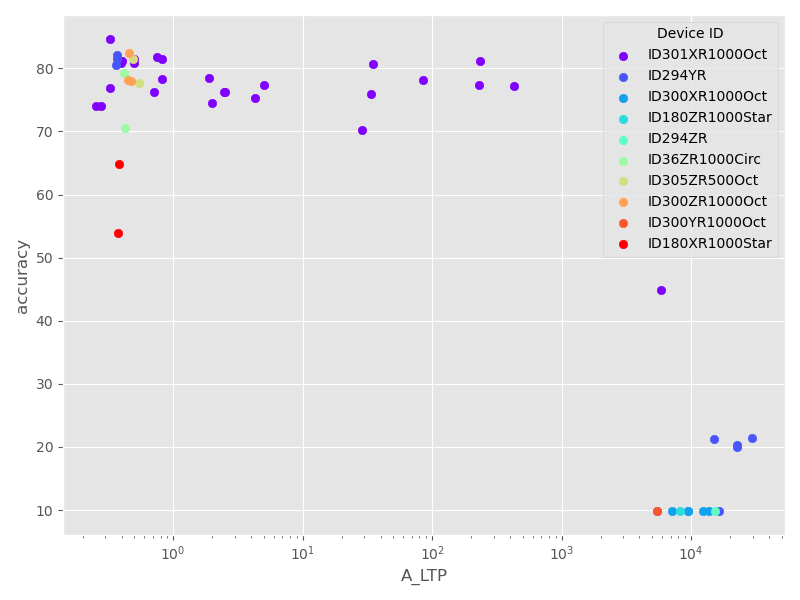
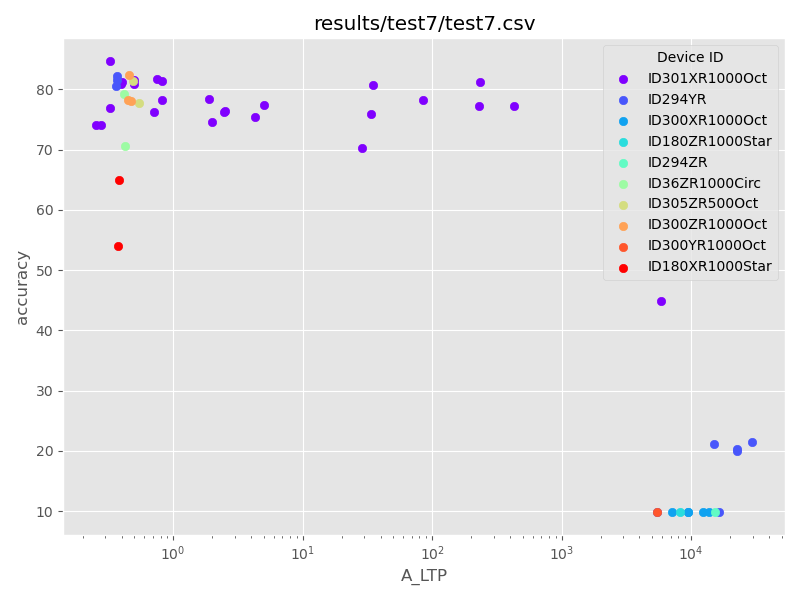
Add titles to plots

diff --git a/utils/src/plot_summary.py b/utils/src/plot_summary.py
@@ -15,6 +15,7 @@ if __name__ == '__main__':
     parser.add_argument('--all', action='store_true', help='Plot all pairs of data points')
     parser.add_argument('--savefig', type=str, help='Save the figure to a file', default=None)
     parser.add_argument('--scale', type=str, choices=['linear', 'log-log', 'log-lin', 'lin-log'], default='linear', help='Scale of the axes')
+    parser.add_argument('--title', type=str, help='Title of the plot', default=None)
     args = parser.parse_args()
 
     if (args.x or args.y) and args.all:
@@ -30,6 +31,8 @@ if __name__ == '__main__':
 
     xscale = 'linear' if args.scale in ['linear', 'log-lin'] else 'log'
     yscale = 'linear' if args.scale in ['linear', 'lin-log'] else 'log'
+
+    title = args.title if args.title is not None else f'{args.input}'
 
     data = pd.read_csv(args.input)
 
@@ -51,7 +54,7 @@ if __name__ == '__main__':
             ax.scatter(device_data[args.x], device_data[args.y], label=device, color=color)
 
         ax.legend(title='Device ID')
-        ax.set(xlabel=args.x, ylabel=args.y, xscale=xscale, yscale=yscale)
+        ax.set(xlabel=args.x, ylabel=args.y, xscale=xscale, yscale=yscale, title=title)
         if args.savefig is not None:
             plt.tight_layout()
             plt.savefig(args.savefig, facecolor=fig.get_facecolor())
@@ -59,7 +62,8 @@ if __name__ == '__main__':
 
     if args.all:
         cols = ['stepSize','pulseWidth','onOffRatio','accuracy', 'A_LTP', 'A_LTD']
-        sns.pairplot(data, hue='device_id', vars=cols)
+        g = sns.pairplot(data, hue='device_id', vars=cols)
+        g.fig.suptitle(title)
         if args.savefig is not None:
             plt.tight_layout()
             plt.savefig(args.savefig)
